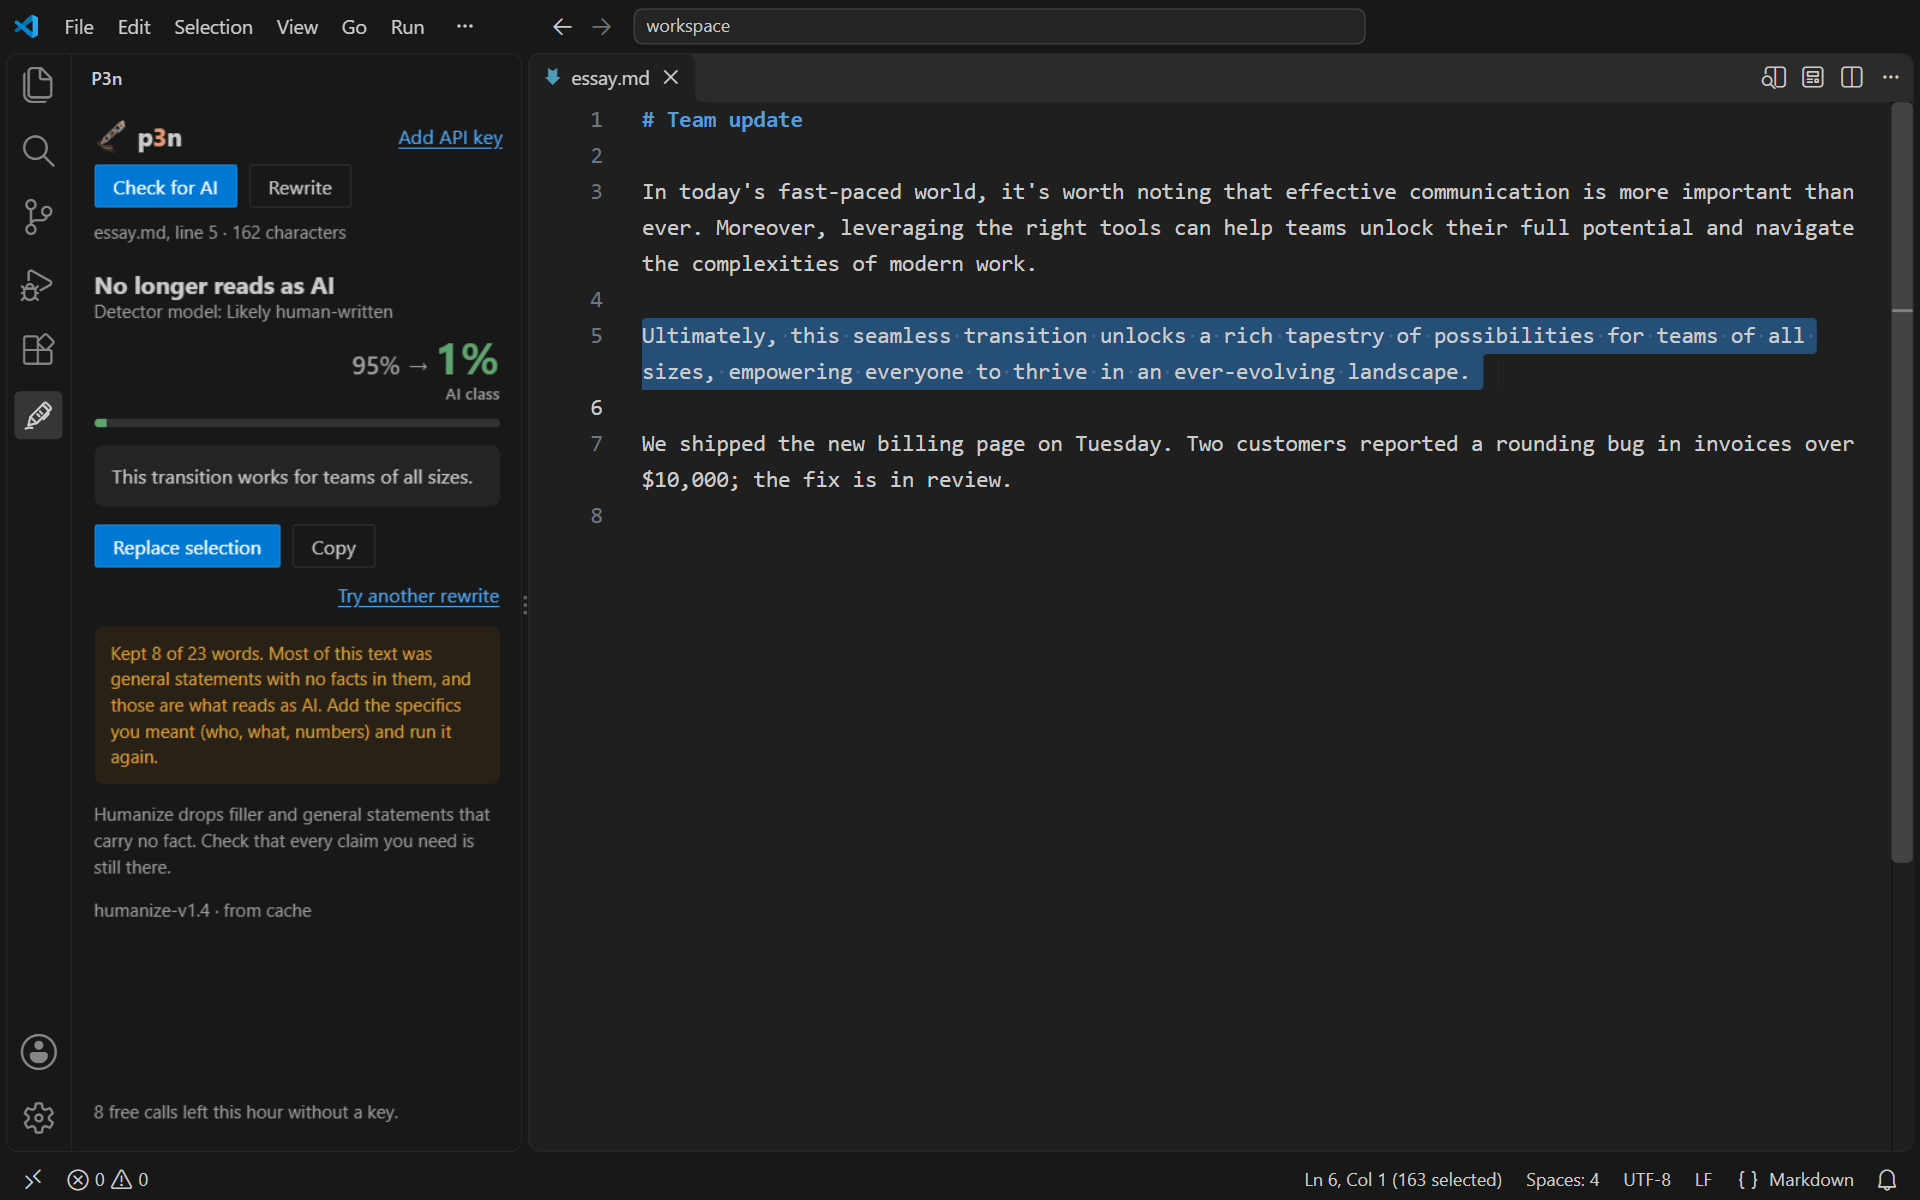
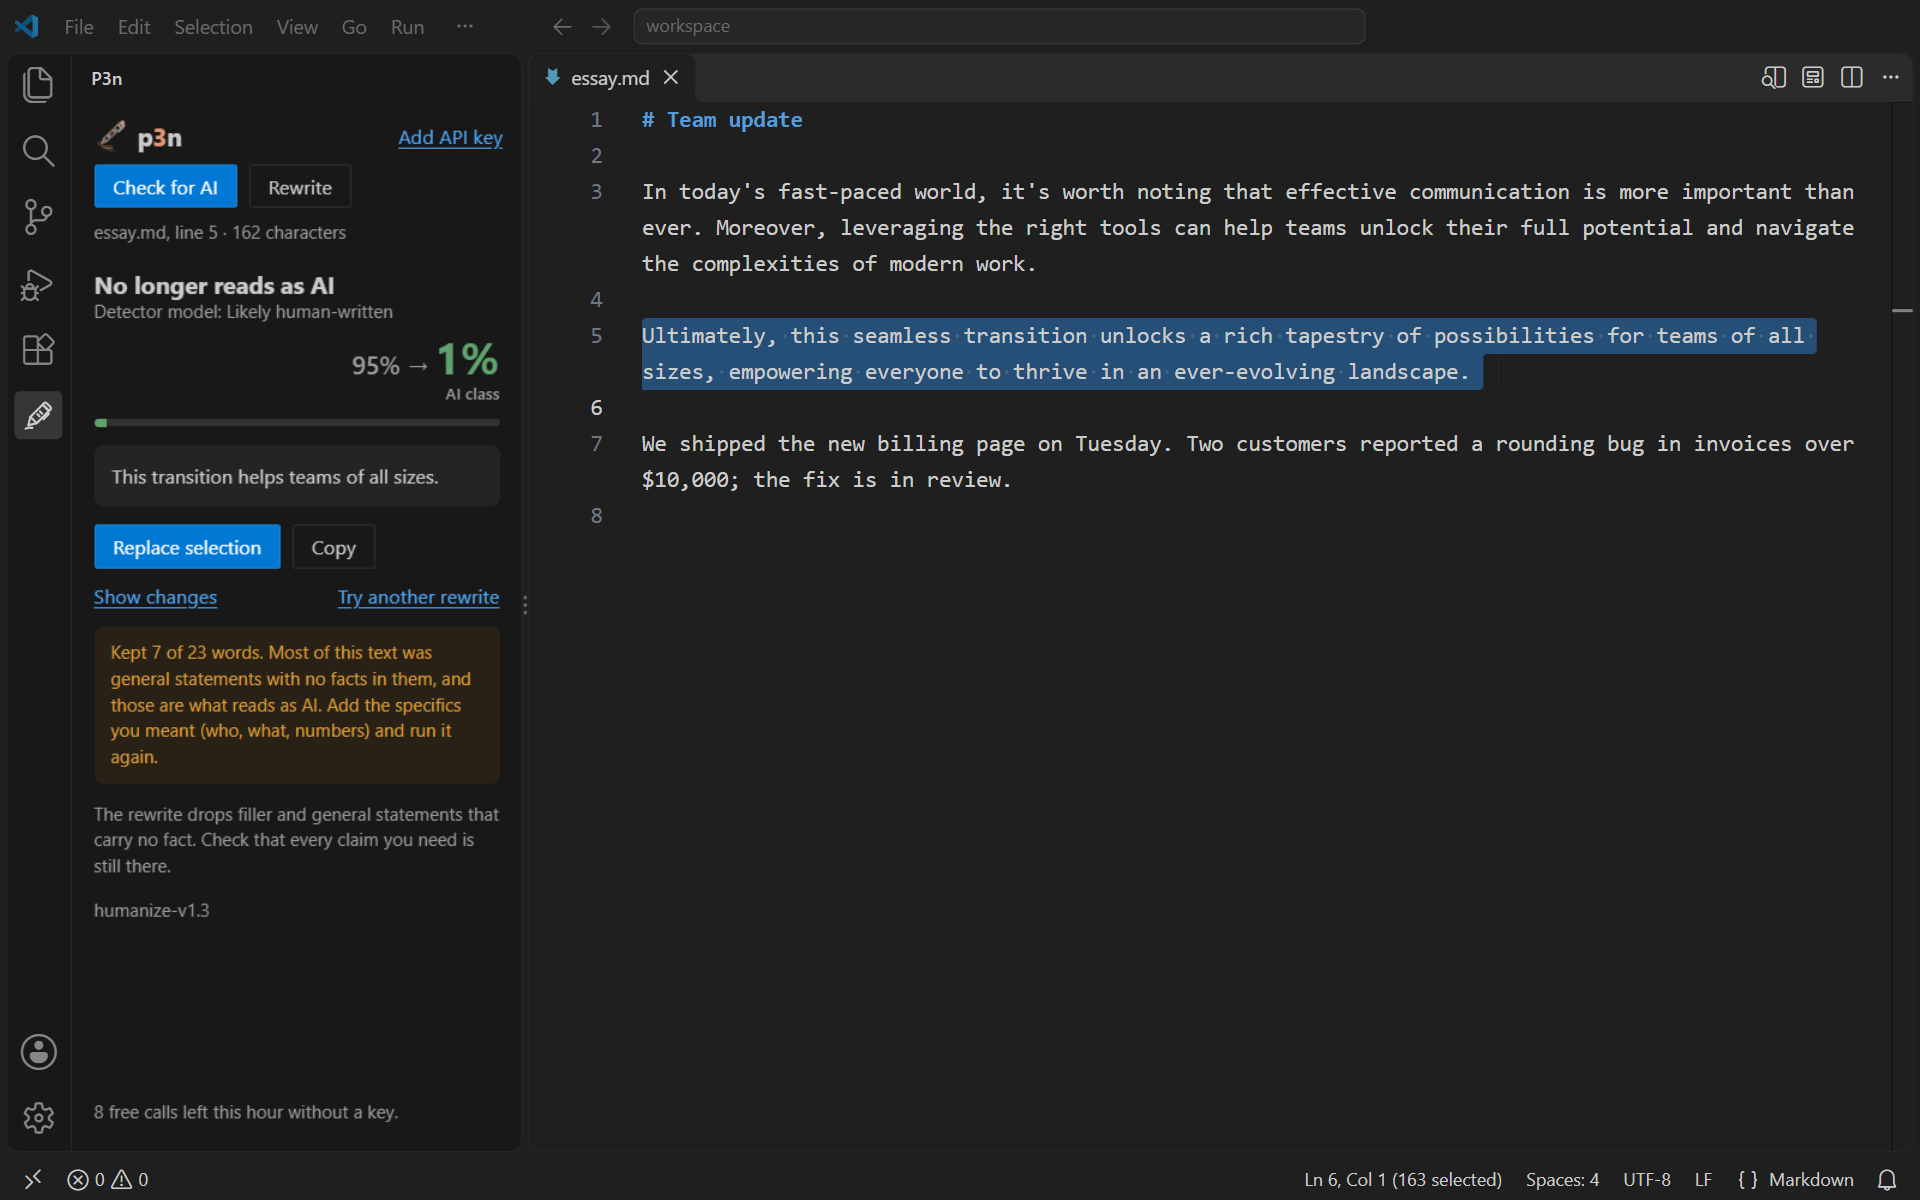
README: Show changes, commands and how to bind keys; rewrite and diff shots from the mocked run

diff --git a/README.md b/README.md
@@ -23,7 +23,7 @@
 ## What it does
 
 - **Check for AI.** A score, a one-line reason, and the sentences that give it away.
-- **Rewrite.** A version that keeps your facts and drops the filler. **Replace selection** puts it where your selection was, as one undo step.
+- **Rewrite.** A version that keeps your facts and drops the filler. **Show changes** opens it next to your selection in VS Code's diff editor, and **Replace selection** puts it where your selection was, as one undo step.
 - Results open in the p3n view in the side bar, in your light or dark theme.
 - Works on any text you can select: Markdown, plain text, docs, comments, commit messages.
 
@@ -31,13 +31,36 @@
 
 ## Use
 
-1. Select text in an editor.
-2. Right-click it and choose **p3n: Check for AI** or **p3n: Rewrite**. Both are in the command palette (Ctrl+Shift+P) too, and the p3n view has buttons for them.
-3. After a rewrite, click **Replace selection**. Ctrl+Z (Cmd+Z on a Mac) in the editor undoes it. **Copy** and **Try another rewrite** are next to it.
+1. Select text in an editor. Check needs at least 40 characters, and Rewrite a sentence of eight words.
+2. Right-click it and choose **p3n: Check for AI** or **p3n: Rewrite**. Both are in the command palette (Ctrl+Shift+P, or Cmd+Shift+P on a Mac) too, and the p3n view has buttons for them. **Cancel** under the progress bar stops a run.
+3. After a rewrite, **Show changes** opens your selection and the rewrite side by side in VS Code's diff editor. Nothing in your file changes until you click **Replace selection**; Ctrl+Z (Cmd+Z on a Mac) in the editor undoes it. **Copy** and **Try another rewrite** are next to it.
+
+![Show changes: the selection and the rewrite in VS Code's diff editor](images/compare-light.png)
+
+## Commands and shortcuts
+
+| Command | ID | Where |
+| --- | --- | --- |
+| p3n: Check for AI | `p3n.check` | Right-click a selection, the command palette, the p3n view |
+| p3n: Rewrite | `p3n.rewrite` | Right-click a selection, the command palette, the p3n view |
+| p3n: Set API key | `p3n.setKey` | The command palette, or **Add API key** at the top of the p3n view |
+| p3n: Remove API key | `p3n.removeKey` | The command palette once a key is set, or **API key** at the top of the p3n view |
+
+p3n sets no keyboard shortcuts, so it never takes keys you already use. To add your own, open **Keyboard Shortcuts** (Ctrl+K Ctrl+S, or Cmd+K Cmd+S on a Mac), search for **p3n**, double-click a command and press the keys. VS Code shows if they're already in use. Or add them to `keybindings.json`:
+
+```jsonc
+// The keys are an example: pick ones that are free on your keyboard.
+[
+  { "key": "ctrl+alt+shift+c", "command": "p3n.check", "when": "editorHasSelection" },
+  { "key": "ctrl+alt+shift+r", "command": "p3n.rewrite", "when": "editorHasSelection" }
+]
+```
+
+p3n has no settings. The API key isn't one: it's kept in secret storage, as below.
 
 ## Free, or with a key
 
-You get 10 checks or rewrites an hour without an account, up to 5,000 characters each. For more, [sign up at p3n.si](https://p3n.si/register) (you get free credit), make a key on the [API keys](https://p3n.si/dashboard/keys) page, and run **p3n: Set API key**. With a key, p3n takes up to 200,000 characters and bills your p3n balance.
+You get 10 checks or rewrites an hour without an account, up to 5,000 characters each. For more, [sign up at p3n.si](https://p3n.si/register) (you get free credit), make a key on the [API keys](https://p3n.si/dashboard/keys) page, and run **p3n: Set API key** (or click **Add API key** in the p3n view). p3n checks the key before it saves it, so a typo never replaces a key that works. With a key, p3n takes up to 200,000 characters and bills your p3n balance.
 
 The key is kept in VS Code's secret storage, encrypted with your system's keychain. It's never written to settings.json and isn't synced. **p3n: Remove API key** deletes it.
 

diff --git a/CONTRIBUTING.md b/CONTRIBUTING.md
@@ -5,7 +5,7 @@ Plain JavaScript with no bundler and no runtime dependencies. VS Code loads `src
 ## Layout
 
 - `src/extension.js`: registers the commands and the view.
-- `src/p3n.js`: the state. It takes the editor's selection, calls p3n, keeps the result, and puts a rewrite back with one `TextEditor.edit`, so a single undo reverts it.
+- `src/p3n.js`: the state. It takes the editor's selection, calls p3n, keeps the result, shows a rewrite next to the selection in VS Code's diff editor (two read-only `p3n:` documents in memory), and puts it back with one `TextEditor.edit`, so a single undo reverts it.
 - `src/api.js`: the API client. It's the same code as the browser extension's and the Word add-in's, in CommonJS.
 - `src/present.js`: everything the view says. The wording matches the other p3n clients, and it doesn't use `vscode`, so it's unit-tested in plain Node.
 - `src/keys.js`: the API key commands. The key goes in `context.secrets`, never in settings.
@@ -20,14 +20,14 @@ npm run test:integration
 ```
 
 - `test:unit` runs the API client against a stubbed `fetch`, and checks the wording for each kind of answer.
-- `test:integration` downloads VS Code into `.vscode-test/` and runs `test/integration/suite` inside it, against a stand-in API on localhost. It opens a VS Code window for about 20 seconds. On Linux without a display, run it as `xvfb-run -a npm run test:integration`. `ONLY=Replace` runs the tests whose names match, and `VSCODE_VERSION=1.90.0` picks a version.
+- `test:integration` downloads VS Code into `.vscode-test/` and runs `test/integration/suite` inside it, against a stand-in API on localhost. It opens a VS Code window for about 30 seconds. On Linux without a display, run it as `xvfb-run -a npm run test:integration`. `ONLY=Replace` runs the tests whose names match, and `VSCODE_VERSION=1.90.0` picks a version.
 - Neither suite calls `api.p3n.si`.
 
 ## Screenshots
 
 `node dev/shots.js` installs the packaged `.vsix` into a fresh VS Code profile and drives the window over the DevTools protocol, like a user would:
 1. it selects a paragraph, runs Check for AI from the right-click menu, and switches the theme;
-2. it runs Rewrite from the command palette, clicks Replace selection, and presses Ctrl+Z.
+2. it runs Rewrite from the command palette, clicks Show changes and Replace selection, and presses Ctrl+Z.
 
 The shots go to `dev/out/shots/`. This run uses the live API: 2 of the free hourly calls. `MOCK=1 node dev/shots.js` loads this folder as a development extension against canned answers instead, with no calls. `SMOKE=1 node dev/shots.js` only checks that the installed `.vsix` loads: the right-click items and the view, with no calls.
 

diff --git a/store/listing.md b/store/listing.md
@@ -16,7 +16,7 @@ The VS Code Marketplace and Open VSX build the listing from the package itself. 
 | Links | p3n.si, GitHub repo, issues (also the Q&A link) | `homepage`, `repository`, `bugs`, `qna` |
 | Licence | MIT | `license`, `LICENSE` |
 | Page | README: what it does, use, free or with a key, privacy, install, known gaps, open source | `README.md` |
-| Screenshots | `images/check-light.png`, `images/rewrite-dark.png` (1920×1200, from `dev/shots.js`) | README; vsce turns the relative links into GitHub URLs |
+| Screenshots | `images/check-light.png`, `images/rewrite-dark.png`, `images/compare-light.png` (1920×1200, from `dev/shots.js`) | README; vsce turns the relative links into GitHub URLs |
 | Changelog tab | `CHANGELOG.md` | |
 
 Both stores show the README's images from GitHub, so the repo must be public before the first upload.
@@ -29,11 +29,13 @@ without an account. Open source, no telemetry.
 
 ## Screenshots
 
-From the live API with the installed .vsix (`node dev/shots.js`):
+`check-light.png` is from the live API with the installed .vsix (`node dev/shots.js`). Since 0.1.3, `rewrite-dark.png` and
+`compare-light.png` are from `MOCK=1 node dev/shots.js`: the same run against canned answers, with no calls.
 - `check-light.png`: Check for AI on a paragraph, Light Modern theme.
 - `check-dark.png`: the same, Dark Modern.
 - `rewrite-dark.png`, `rewrite-light.png`: Rewrite, before Replace.
+- `compare-light.png`: Show changes, the selection and the rewrite in VS Code's diff editor.
 - `replaced-light.png`: after Replace selection, the rewrite selected in the editor.
 - `menu.png`: p3n's two commands in the editor's right-click menu.
 
-The README uses `check-light.png` and `rewrite-dark.png`, copied to `images/`.
+The README uses `check-light.png`, `rewrite-dark.png` and `compare-light.png`, copied to `images/`.

diff --git a/PRIVACY.md b/PRIVACY.md
@@ -5,7 +5,7 @@ p3n for VS Code sends text to p3n only when you ask it to.
 - **What it sends.** The text you selected, when you run Check for AI or Rewrite from the right-click menu, the command palette or the p3n view. If you added an API key, the key goes with it so p3n can bill your account, and the view uses it to show your balance. Each call also names the extension and its version (for example `p3n-vscode/0.1.0`), so your usage page can show which tool made it.
 - **Where it goes.** Only to `api.p3n.si`, over HTTPS. The view's links (Sign up, Top up, API keys) open p3n.si in your browser.
 - **What it doesn't do.** It reads nothing until you run a command, and never looks at your files or workspace on its own. It keeps no history, and has no telemetry, analytics or ads.
-- **What stays on your device.** Your API key, in VS Code's secret storage, encrypted with your system's keychain. It's never written to settings.json, and Settings Sync doesn't copy it. Remove API key deletes it. The last result stays in memory until you close VS Code.
+- **What stays on your device.** Your API key, in VS Code's secret storage, encrypted with your system's keychain. It's never written to settings.json, and Settings Sync doesn't copy it. Remove API key deletes it. The last result, and the texts that Show changes compared, stay in memory until you close VS Code.
 
 What p3n does with the text it receives:
 - It keeps the text for up to 7 days, to return results and debug failures, then deletes it.
